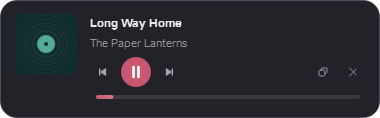
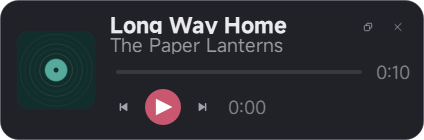
fix(1.0.38): 托盘判定放宽到 isSystemTrayAvailable；重做迷你播放器

diff --git a/hushplayer/ui/mini_player.py b/hushplayer/ui/mini_player.py
@@ -23,43 +23,62 @@ class MiniPlayer(QWidget):
     def __init__(self) -> None:
         super().__init__(None, Qt.Window | Qt.FramelessWindowHint | Qt.WindowStaysOnTopHint | Qt.Tool)
         self.setAttribute(Qt.WA_StyledBackground, False)
-        self.setFixedSize(380, 118)
+        self.setFixedSize(424, 140)
         self._drag: QPoint | None = None
-
         layout = QHBoxLayout(self)
-        layout.setContentsMargins(14, 12, 14, 14)
-        layout.setSpacing(12)
-        self.cover = CoverWidget(64, radius=9)
-        layout.addWidget(self.cover, 0, Qt.AlignTop)
+        layout.setContentsMargins(16, 14, 14, 14)
+        layout.setSpacing(14)
+        self.cover = CoverWidget(80, radius=12)
+        layout.addWidget(self.cover, 0, Qt.AlignVCenter)
 
         right = QVBoxLayout()
-        right.setContentsMargins(0, 2, 0, 0)
+        right.setContentsMargins(0, 1, 0, 0)
         right.setSpacing(2)
+
+        head = QHBoxLayout()
+        head.setSpacing(6)
+        titles = QVBoxLayout()
+        titles.setSpacing(1)
         self.title = QLabel("未在播放")
-        self.title.setFont(theme().font(9.8, 600))
+        self.title.setFont(theme().font(10.2, 600))
         self.artist = QLabel("")
-        self.artist.setFont(theme().font(8.4))
-        right.addWidget(self.title)
-        right.addWidget(self.artist)
+        self.artist.setFont(theme().font(8.8))
+        titles.addWidget(self.title)
+        titles.addWidget(self.artist)
+        head.addLayout(titles, 1)
+
+        self.restore = IconButton("restore", size=24, icon_size=12, tooltip="返回主界面")
+        self.close_button = IconButton("close", size=24, icon_size=12, tooltip="关闭迷你播放器")
+        head.addWidget(self.restore, 0, Qt.AlignTop)
+        head.addWidget(self.close_button, 0, Qt.AlignTop)
+        right.addLayout(head)
+        right.addSpacing(4)
+
+        seek_row = QHBoxLayout()
+        seek_row.setSpacing(8)
+        self.seek = SeekBar()
+        self.seek.setFixedHeight(16)
+        self.total = QLabel("0:00")
+        self.total.setFont(theme().font(8.2))
+        seek_row.addWidget(self.seek, 1)
+        seek_row.addWidget(self.total, 0)
+        right.addLayout(seek_row)
         right.addSpacing(2)
 
         controls = QHBoxLayout()
-        controls.setSpacing(4)
-        self.previous = IconButton("prev", size=26, icon_size=14, tooltip="上一首")
-        self.play = PlayButton(32)
-        self.next = IconButton("next", size=26, icon_size=14, tooltip="下一首")
-        self.restore = IconButton("restore", size=26, icon_size=13, tooltip="返回主界面")
-        self.close_button = IconButton("close", size=26, icon_size=13, tooltip="关闭迷你播放器")
-        for button in (self.previous, self.play, self.next):
-            controls.addWidget(button)
+        controls.setSpacing(6)
+        self.previous = IconButton("prev", size=28, icon_size=15, tooltip="上一首")
+        self.play = PlayButton(38)
+        self.next = IconButton("next", size=28, icon_size=15, tooltip="下一首")
+        self.elapsed = QLabel("0:00")
+        self.elapsed.setFont(theme().font(8.2))
+        controls.addWidget(self.previous)
+        controls.addWidget(self.play)
+        controls.addWidget(self.next)
+        controls.addSpacing(6)
+        controls.addWidget(self.elapsed)
         controls.addStretch(1)
-        controls.addWidget(self.restore)
-        controls.addWidget(self.close_button)
         right.addLayout(controls)
-
-        self.seek = SeekBar()
-        self.seek.setFixedHeight(14)
-        right.addWidget(self.seek)
         layout.addLayout(right, 1)
 
         self.previous.clicked.connect(lambda: ctx().player.previous())
@@ -87,6 +106,8 @@ class MiniPlayer(QWidget):
         self.title.setToolTip(self.title.text())
         self.seek.set_duration(track.duration_ms if track else 0)
         self.seek.set_position(0)
+        self.elapsed.setText("0:00")
+        self.total.setText(format_duration(track.duration_ms if track else 0))
         self._restyle()
 
     def _on_state(self, state: str) -> None:
@@ -95,11 +116,14 @@ class MiniPlayer(QWidget):
     def _on_position(self, position: int) -> None:
         if not self.seek._dragging:
             self.seek.set_position(position)
+        self.elapsed.setText(format_duration(position))
 
     def _restyle(self) -> None:
         palette = theme().palette
         self.title.setStyleSheet(f"color:{css_rgba(palette.text, 0.96)};")
-        self.artist.setStyleSheet(f"color:{css_rgba(palette.text, 0.55)};")
+        self.artist.setStyleSheet(f"color:{css_rgba(palette.text, 0.58)};")
+        self.elapsed.setStyleSheet(f"color:{css_rgba(palette.text, 0.45)};")
+        self.total.setStyleSheet(f"color:{css_rgba(palette.text, 0.45)};")
 
     # ------------------------------------------------------------------ window
     def show_player(self) -> None:
@@ -135,9 +159,9 @@ class MiniPlayer(QWidget):
         painter = QPainter(self)
         painter.setRenderHint(QPainter.Antialiasing, True)
         rect = QRectF(self.rect()).adjusted(0.5, 0.5, -0.5, -0.5)
-        painter.setPen(rgba(palette.border_strong, 0.7))
-        painter.setBrush(rgba(palette.elevated, 0.98))
-        painter.drawRoundedRect(rect, Metrics.radius_lg, Metrics.radius_lg)
+        painter.setPen(rgba(palette.border_strong, 0.55))
+        painter.setBrush(rgba(palette.elevated, 0.99))
+        painter.drawRoundedRect(rect, 18, 18)
         painter.end()
 
     def mousePressEvent(self, event) -> None:  # noqa: N802

diff --git a/hushplayer/ui/main_window.py b/hushplayer/ui/main_window.py
@@ -545,16 +545,15 @@ class MainWindow(FramelessWindow):
         if tray is None:
             return
         geometry = tray.geometry()
-        registered = geometry.isValid() and geometry.width() > 0
-        if not registered and not tray.isVisible():
-            registered = False
-        self._tray_ok = bool(registered)
-        if not registered:
-            log.warning(
-                "托盘图标未注册（geometry=%s visible=%s）；将退回任务栏最小化，避免窗口丢失",
-                geometry,
-                tray.isVisible(),
-            )
+        # Windows 11 reports an empty geometry for icons that live in the
+        # overflow panel, so geometry cannot decide whether the icon exists.
+        # Only a missing system tray is fatal; otherwise trust the shell.
+        available = QSystemTrayIcon.isSystemTrayAvailable()
+        self._tray_ok = bool(available)
+        if not available:
+            log.warning("系统托盘不可用；后台播放将使用迷你播放器")
+        else:
+            log.info("托盘图标已注册（geometry=%s，溢出区图标同样有效）", geometry)
 
     def _tray_available(self) -> bool:
         return bool(

diff --git a/tools/probe_r41_mini6.py b/tools/probe_r41_mini6.py
@@ -1,0 +1,23 @@
+import os, sys
+sys.path.insert(0, ".")
+os.environ["HUSHPLAYER_DATA_DIR"] = os.path.abspath("artifacts/qa/r41/data8")
+os.environ["HUSHPLAYER_TYPE_SCALE"] = "1.5"
+from pathlib import Path
+from PySide6.QtCore import QTimer
+from PySide6.QtGui import QPixmap
+from PySide6.QtWidgets import QApplication
+from hushplayer.app import HushApp
+from hushplayer.ui.context import ctx
+from hushplayer.ui.mini_player import MiniPlayer
+
+app = QApplication(sys.argv); hush = HushApp(app); hush.start()
+ctx().library.import_files([str(p) for p in Path("tests/fixtures/audio").rglob("*") if p.is_file()])
+tracks = ctx().library.tracks.list(limit=1)
+mini = MiniPlayer(); mini._wire_track(tracks[0]); mini.show(); app.processEvents()
+print("visible", mini.isVisible(), "size", mini.size(), flush=True)
+def shot():
+    pm = QPixmap(mini.size()); pm.fill()
+    mini.render(pm)
+    print("save", pm.save("artifacts/qa/r41/mini_v3.png"), flush=True)
+    app.quit()
+QTimer.singleShot(700, shot); app.exec(); hush.shutdown(); print("done", flush=True)

diff --git a/tools/probe_r41_mini2.py b/tools/probe_r41_mini2.py
@@ -1,0 +1,25 @@
+import os, sys, faulthandler
+faulthandler.dump_traceback_later(20, exit=True)
+sys.path.insert(0, ".")
+os.environ["HUSHPLAYER_DATA_DIR"] = os.path.abspath("artifacts/qa/r41/data4")
+os.environ["HUSHPLAYER_TYPE_SCALE"] = "1.5"
+from pathlib import Path
+from PySide6.QtCore import QTimer
+from PySide6.QtWidgets import QApplication
+from hushplayer.app import HushApp
+from hushplayer.ui.context import ctx
+from hushplayer.ui.mini_player import MiniPlayer
+
+app = QApplication(sys.argv); hush = HushApp(app); hush.start()
+print("started", flush=True)
+ctx().library.import_files([str(p) for p in Path("tests/fixtures/audio").rglob("*") if p.is_file()])
+tracks = ctx().library.tracks(limit=1)
+print("tracks", len(tracks), flush=True)
+mini = MiniPlayer()
+print("mini created", flush=True)
+mini._wire_track(tracks[0])
+mini.show(); app.processEvents()
+QTimer.singleShot(500, lambda: (mini.grab().save("artifacts/qa/r41/mini_player.png"), print("saved", flush=True), app.quit()))
+app.exec()
+hush.shutdown()
+print("done", flush=True)

diff --git a/tools/probe_r41_mini4.py b/tools/probe_r41_mini4.py
@@ -1,0 +1,20 @@
+import os, sys, faulthandler
+faulthandler.dump_traceback_later(25, exit=True)
+sys.path.insert(0, ".")
+os.environ["HUSHPLAYER_DATA_DIR"] = os.path.abspath("artifacts/qa/r41/data6")
+os.environ["HUSHPLAYER_TYPE_SCALE"] = "1.5"
+from pathlib import Path
+from PySide6.QtCore import QTimer
+from PySide6.QtWidgets import QApplication
+from hushplayer.app import HushApp
+from hushplayer.ui.context import ctx
+from hushplayer.ui.mini_player import MiniPlayer
+
+app = QApplication(sys.argv); hush = HushApp(app); hush.start()
+ctx().library.import_files([str(p) for p in Path("tests/fixtures/audio").rglob("*") if p.is_file()])
+tracks = ctx().library.tracks.list(limit=1)
+print("tracks", len(tracks), flush=True)
+mini = MiniPlayer(); mini._wire_track(tracks[0]); mini.show(); app.processEvents()
+def shot():
+    mini.grab().save("artifacts/qa/r41/mini_player.png"); print("saved", flush=True); app.quit()
+QTimer.singleShot(600, shot); app.exec(); hush.shutdown(); print("done", flush=True)

diff --git a/tools/probe_r41_mini3.py b/tools/probe_r41_mini3.py
@@ -1,0 +1,20 @@
+import os, sys, faulthandler
+faulthandler.dump_traceback_later(25, exit=True)
+sys.path.insert(0, ".")
+os.environ["HUSHPLAYER_DATA_DIR"] = os.path.abspath("artifacts/qa/r41/data5")
+os.environ["HUSHPLAYER_TYPE_SCALE"] = "1.5"
+from pathlib import Path
+from PySide6.QtCore import QTimer
+from PySide6.QtWidgets import QApplication
+from hushplayer.app import HushApp
+from hushplayer.ui.context import ctx
+from hushplayer.ui.mini_player import MiniPlayer
+
+app = QApplication(sys.argv); hush = HushApp(app); hush.start()
+ctx().library.import_files([str(p) for p in Path("tests/fixtures/audio").rglob("*") if p.is_file()])
+tracks = ctx().library.repo.list(limit=1)
+print("tracks", len(tracks), flush=True)
+mini = MiniPlayer(); mini._wire_track(tracks[0]); mini.show(); app.processEvents()
+def shot():
+    mini.grab().save("artifacts/qa/r41/mini_player.png"); print("saved", flush=True); app.quit()
+QTimer.singleShot(600, shot); app.exec(); hush.shutdown(); print("done", flush=True)

diff --git a/tools/probe_r41_tray.py b/tools/probe_r41_tray.py
@@ -1,0 +1,21 @@
+import os, sys
+sys.path.insert(0, ".")
+os.environ["HUSHPLAYER_DATA_DIR"] = os.path.abspath("artifacts/qa/r41/data")
+os.environ["HUSHPLAYER_TYPE_SCALE"] = "1.5"
+from PySide6.QtCore import QTimer
+from PySide6.QtWidgets import QApplication
+from hushplayer.app import HushApp
+from hushplayer.ui.context import ctx
+
+app = QApplication(sys.argv); hush = HushApp(app); hush.start()
+win = ctx().window; win.show(); app.processEvents()
+def go():
+    QTimer.singleShot(2800, check)
+def check():
+    print("tray_ok", getattr(win, "_tray_ok", None), "available", win._tray_available(), flush=True)
+    win._hide_to_tray(); app.processEvents()
+    mini = getattr(win, "_mini", None)
+    print("main_visible", win.isVisible(), "mini", mini is not None and mini.isVisible(), flush=True)
+    print("RESULT", "PASS" if (not win.isVisible() and (mini is None or not mini.isVisible())) else "FAIL", flush=True)
+    app.quit()
+QTimer.singleShot(400, go); app.exec(); hush.shutdown()

diff --git a/tools/probe_r41_mini5.py b/tools/probe_r41_mini5.py
@@ -1,0 +1,20 @@
+import os, sys, faulthandler
+faulthandler.dump_traceback_later(25, exit=True)
+sys.path.insert(0, ".")
+os.environ["HUSHPLAYER_DATA_DIR"] = os.path.abspath("artifacts/qa/r41/data7")
+os.environ["HUSHPLAYER_TYPE_SCALE"] = "1.5"
+from pathlib import Path
+from PySide6.QtCore import QTimer
+from PySide6.QtWidgets import QApplication
+from hushplayer.app import HushApp
+from hushplayer.ui.context import ctx
+from hushplayer.ui.mini_player import MiniPlayer
+
+app = QApplication(sys.argv); hush = HushApp(app); hush.start()
+ctx().library.import_files([str(p) for p in Path("tests/fixtures/audio").rglob("*") if p.is_file()])
+tracks = ctx().library.tracks.list(limit=1)
+mini = MiniPlayer(); mini._wire_track(tracks[0]); mini.show(); app.processEvents()
+def shot():
+    ok = mini.grab().save("artifacts/qa/r41/mini_v2.png")
+    print("saved", ok, flush=True); app.quit()
+QTimer.singleShot(600, shot); app.exec(); hush.shutdown(); print("done", flush=True)

diff --git a/tools/probe_r41_mini8.py b/tools/probe_r41_mini8.py
@@ -1,0 +1,18 @@
+import os, sys, faulthandler
+faulthandler.dump_traceback_later(20, exit=True)
+sys.path.insert(0, ".")
+os.environ["HUSHPLAYER_DATA_DIR"] = os.path.abspath("artifacts/qa/r41/data10")
+os.environ["HUSHPLAYER_TYPE_SCALE"] = "1.5"
+from pathlib import Path
+from PySide6.QtWidgets import QApplication
+from hushplayer.app import HushApp
+from hushplayer.ui.context import ctx
+app = QApplication(sys.argv); hush = HushApp(app); hush.start()
+ctx().library.import_files([str(p) for p in Path("tests/fixtures/audio").rglob("*") if p.is_file()])
+items = ctx().library.tracks.list(limit=1)
+from hushplayer.ui.mini_player import MiniPlayer
+mini = MiniPlayer(); mini._wire_track(items[0]); mini.show(); app.processEvents()
+print("ready", flush=True)
+pm = mini.grab(); print("grabbed", pm.size(), flush=True)
+print("saved", pm.save("artifacts/qa/r41/mini_v4.png"), flush=True)
+mini.close(); hush.shutdown(); print("done", flush=True)

diff --git a/tools/probe_r41_mini.py b/tools/probe_r41_mini.py
@@ -1,0 +1,22 @@
+import os, sys
+sys.path.insert(0, ".")
+os.environ["HUSHPLAYER_DATA_DIR"] = os.path.abspath("artifacts/qa/r41/data3")
+os.environ["HUSHPLAYER_TYPE_SCALE"] = "1.5"
+from pathlib import Path
+from PySide6.QtCore import QTimer
+from PySide6.QtWidgets import QApplication
+from hushplayer.app import HushApp
+from hushplayer.ui.context import ctx
+
+app = QApplication(sys.argv); hush = HushApp(app); hush.start()
+ctx().library.import_files([str(p) for p in Path("tests/fixtures/audio").rglob("*") if p.is_file()])
+win = ctx().window; win.show(); app.processEvents()
+def go():
+    ctx().player.play_tracks(ctx().library.tracks(limit=3), 0)
+    win.toggle_mini_player()
+    QTimer.singleShot(700, shot)
+def shot():
+    mini = win._mini
+    mini.grab().save("artifacts/qa/r41/mini_player.png")
+    print("RESULT PASS", flush=True); app.quit()
+QTimer.singleShot(600, go); app.exec(); hush.shutdown()

diff --git a/tools/probe_r41_tray2.py b/tools/probe_r41_tray2.py
@@ -1,0 +1,20 @@
+import os, sys
+sys.path.insert(0, ".")
+os.environ["HUSHPLAYER_DATA_DIR"] = os.path.abspath("artifacts/qa/r41/data2")
+os.environ["HUSHPLAYER_TYPE_SCALE"] = "1.5"
+from PySide6.QtCore import QTimer
+from PySide6.QtWidgets import QApplication
+from hushplayer.app import HushApp
+from hushplayer.ui.context import ctx
+
+app = QApplication(sys.argv); hush = HushApp(app); hush.start()
+ctx().settings.set("general.tray_hint_shown", True)
+win = ctx().window; win.show(); app.processEvents()
+def check():
+    print("available", win._tray_available(), flush=True)
+    win._hide_to_tray(); app.processEvents()
+    mini = getattr(win, "_mini", None)
+    print("main_visible", win.isVisible(), "mini", mini is not None and mini.isVisible(), flush=True)
+    app.quit()
+QTimer.singleShot(2800, check); app.exec(); hush.shutdown()
+print("done", flush=True)

diff --git a/tools/probe_r41_mini7.py b/tools/probe_r41_mini7.py
@@ -1,0 +1,17 @@
+import os, sys, faulthandler
+faulthandler.dump_traceback_later(15, exit=True)
+sys.path.insert(0, ".")
+os.environ["HUSHPLAYER_DATA_DIR"] = os.path.abspath("artifacts/qa/r41/data9")
+os.environ["HUSHPLAYER_TYPE_SCALE"] = "1.5"
+from PySide6.QtWidgets import QApplication
+from hushplayer.app import HushApp
+from hushplayer.ui.context import ctx
+print("imports ok", flush=True)
+app = QApplication(sys.argv); hush = HushApp(app); hush.start()
+print("app ok", flush=True)
+from hushplayer.ui.mini_player import MiniPlayer
+mini = MiniPlayer()
+print("constructed", mini.size(), flush=True)
+mini.show(); print("shown", flush=True)
+app.processEvents(); print("events ok", flush=True)
+mini.close(); hush.shutdown(); print("done", flush=True)
